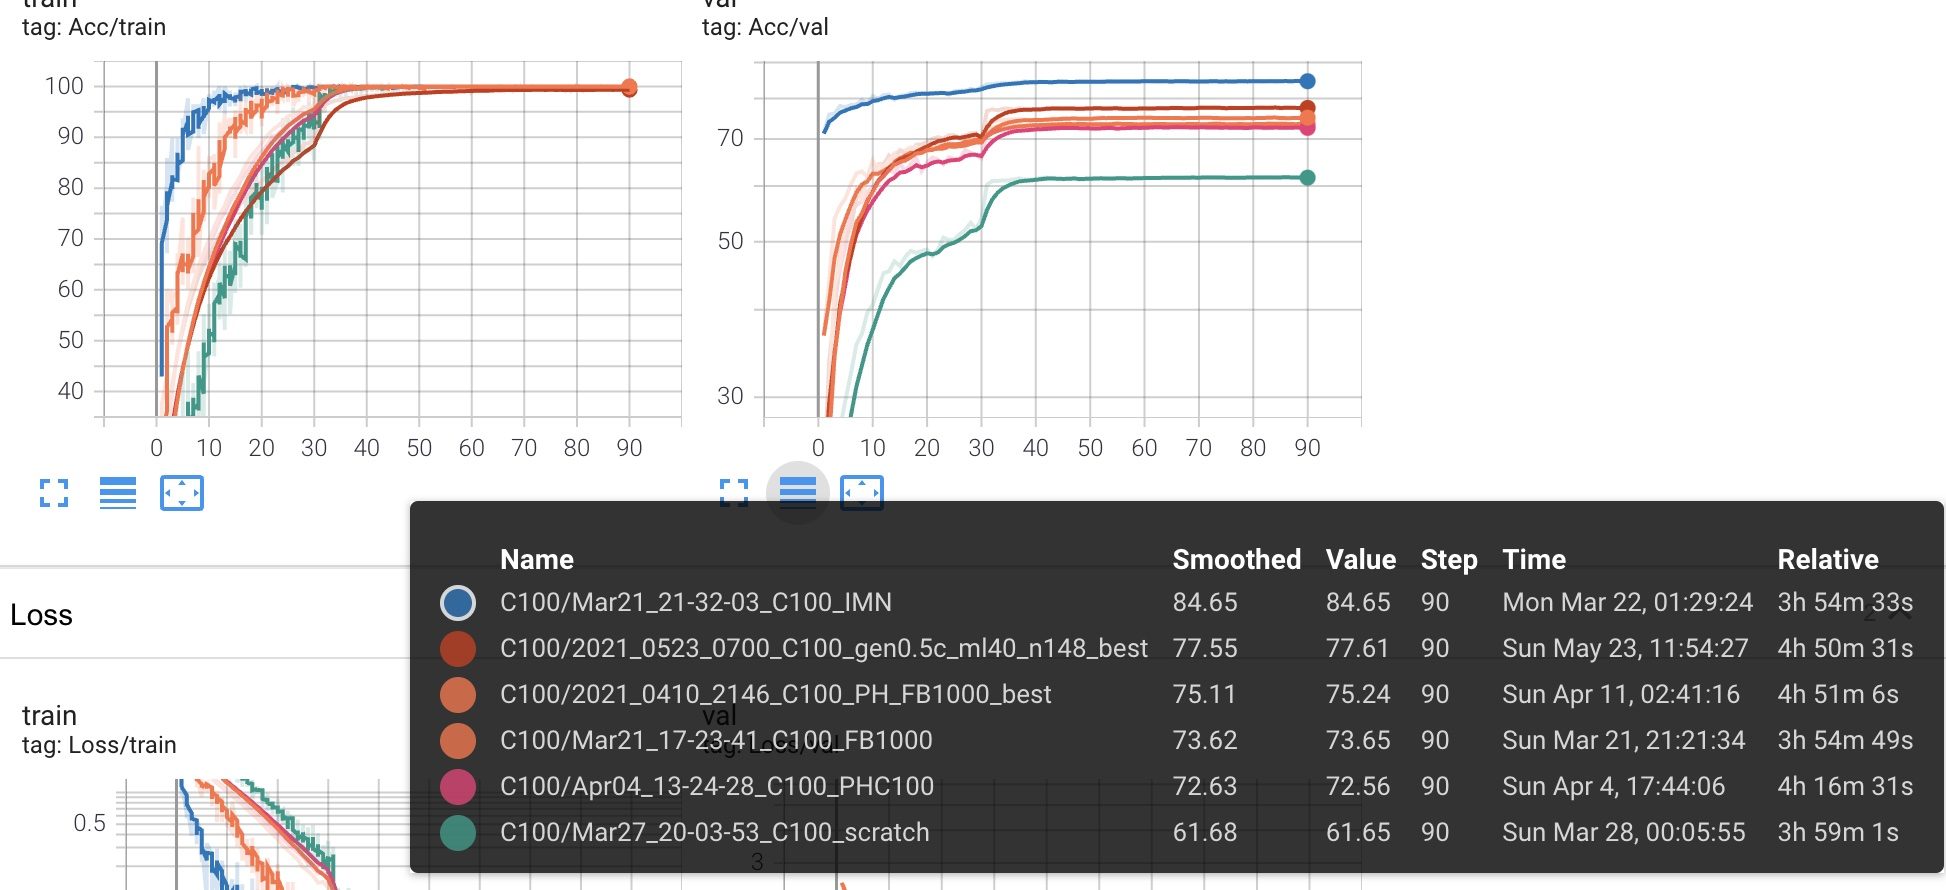
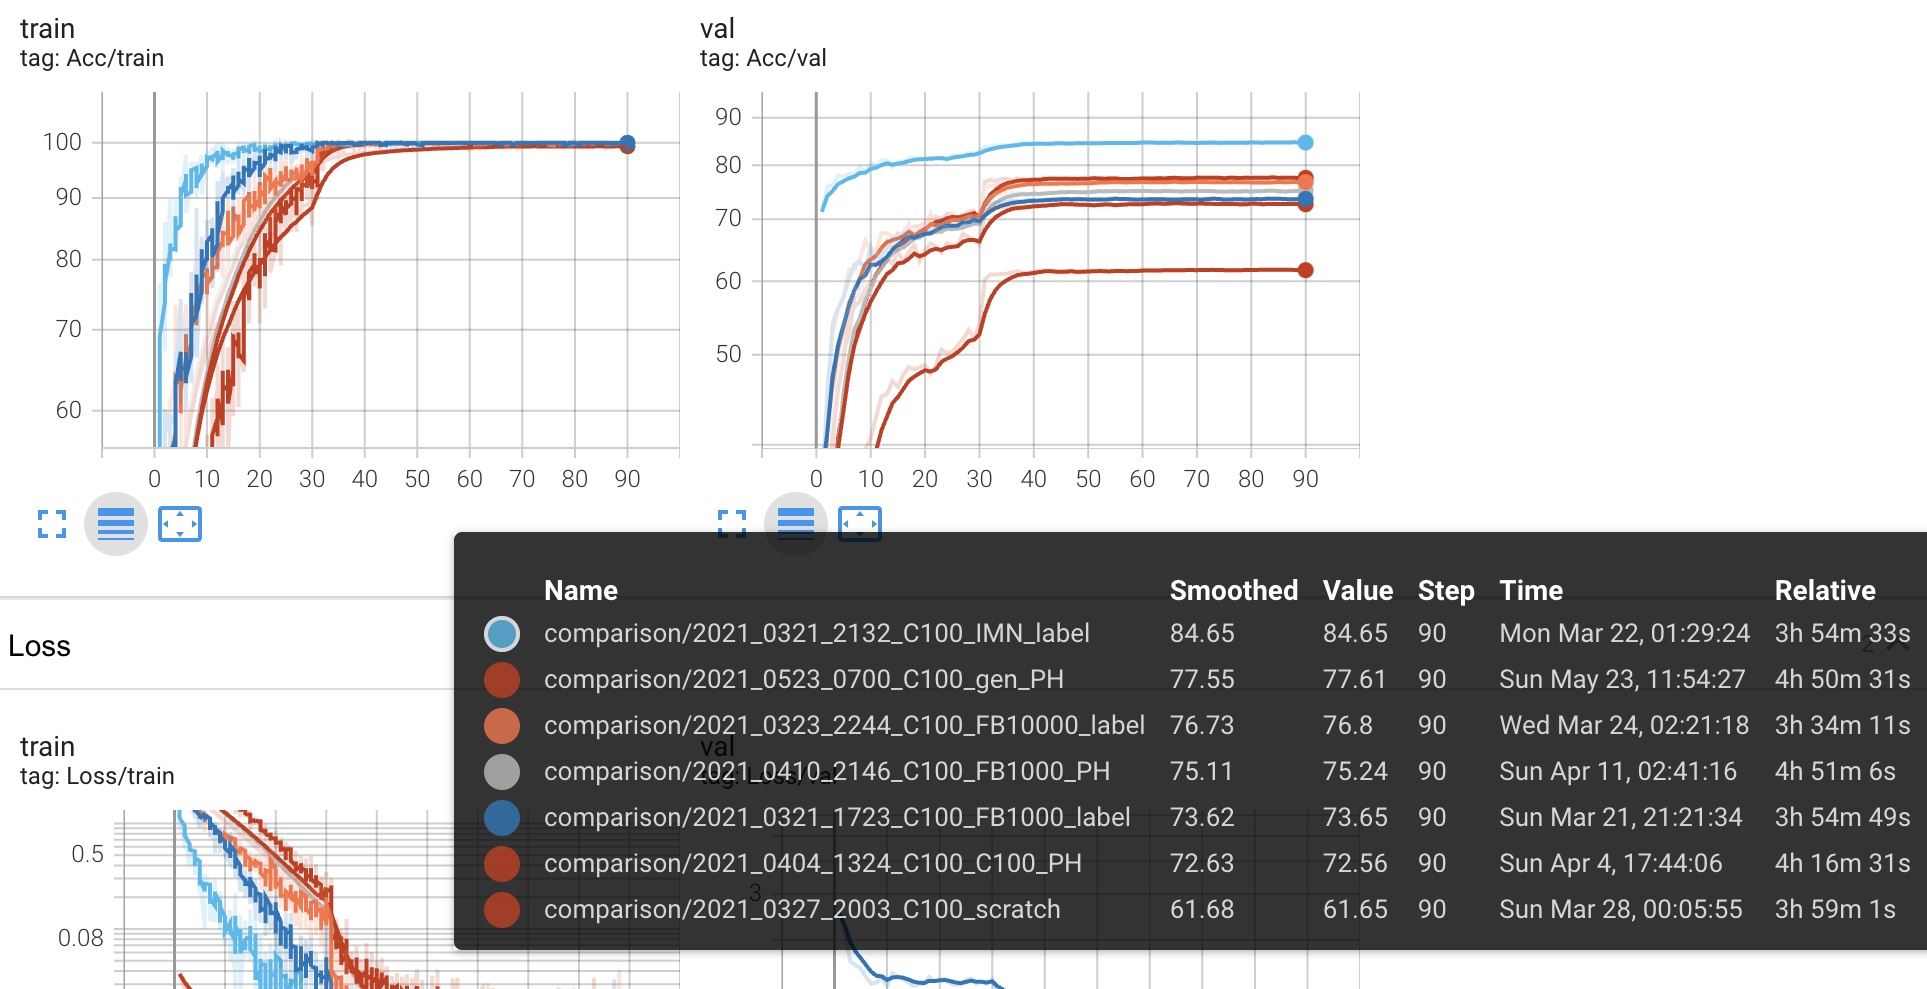
replaced graphs

Changed region(s): [[0.0, 0.0, 1.0, 1.0], [0.0, 0.6371, 0.0623, 0.6978]]

diff --git a/README.md b/README.md
@@ -97,16 +97,24 @@ The CIFAR100 dataset can be obtained by the [script](https://github.com/chatflip
 ![C100](https://github.com/shizuo-kaji/PretrainCNNwithNoData/blob/master/demo/C100.jpg?raw=true)
 ![C100](https://github.com/shizuo-kaji/PretrainCNNwithNoData/blob/master/demo/omniglot.jpg?raw=true)
 
-The graph shows the classification accuracies of the CIFAR100 and the Omniglot dataset with models pretrained in different manners.
-- IMN indicates the usual ImageNet-1k pretrained model.
-- gen0.5c_ml40_n148_best indicates the model pretrained with synthetic random image as above.
-- FB1000 indicates the model pretrained with FractalDB-1k downloadable at [here](https://hirokatsukataoka16.github.io/Pretraining-without-Natural-Images/)
-- scratch indicates the model without any pretraining (random initialisation)
-- PHC100 indicates the model pretrained with the CIFAR100 dataset but without using labels; instead, pretrained by persistent homology as above.
-- PH_FB1000 indicates the model pretrained with the FractalDB-1k dataset but without using labels; instead, pretrained by persistent homology as above.
+The graph shows the classification accuracies of the CIFAR100 and the [Omniglot](https://github.com/brendenlake/omniglot) dataset 
+with models pretrained in different datasets and tasks.
+The naming convention used in the graphs is PROBLEM_DATASET_TASK, where
+- PROBLEM is either C100 (CIFAR100) or OMN (Omniglot).
+- scratch indicates without any pretraining (random initialisation)
+- DATASET indicates the dataset used for pretraining. 
+IMN is the usual ImageNet-1k dataset, 
+FB1000 (FB10000) is the FractalDB-1k (FractalDB-10k) dataset downloadable at [here](https://hirokatsukataoka16.github.io/Pretraining-without-Natural-Images/),
+C100 is the CIFAR100 dataset,
+and gen is the synthetic random image dataset generated as above.
+- TASK indicates the task used for pretraining.
+label means the classification of the labels that come with the dataset.
+PH means the regression of persistent homology as above.
 
-For the natural image classification (CIFAR100), the ImageNet pretrained outperforms others by a large margin.
-Still, it is notable that our method is far better than learning from scratch.
+For the natural image classification (CIFAR100), the ImageNet pretrained model outperforms others by a large margin.
+Still, it is notable that our method (gen_PH) is far better than learning from scratch.
 
-For hand-written character classification with small data (Omniglot), where human-like shape recognition is required, our method outperforms the ImageNet pretrained model. We speculate that the topological feature learned with our method is better generalisable to this kind of tasks.
+For the one-shot learning of hand-written character classification (Omniglot), our method (gen_PH) outperforms the ImageNet pretrained model. 
+Omniglot consists of one training image and 19 test images per character so that human-like shape recognition is required to perform the classification task.
+We speculate that the topological feature learned with our method is better generalisable to this kind of tasks.
 
